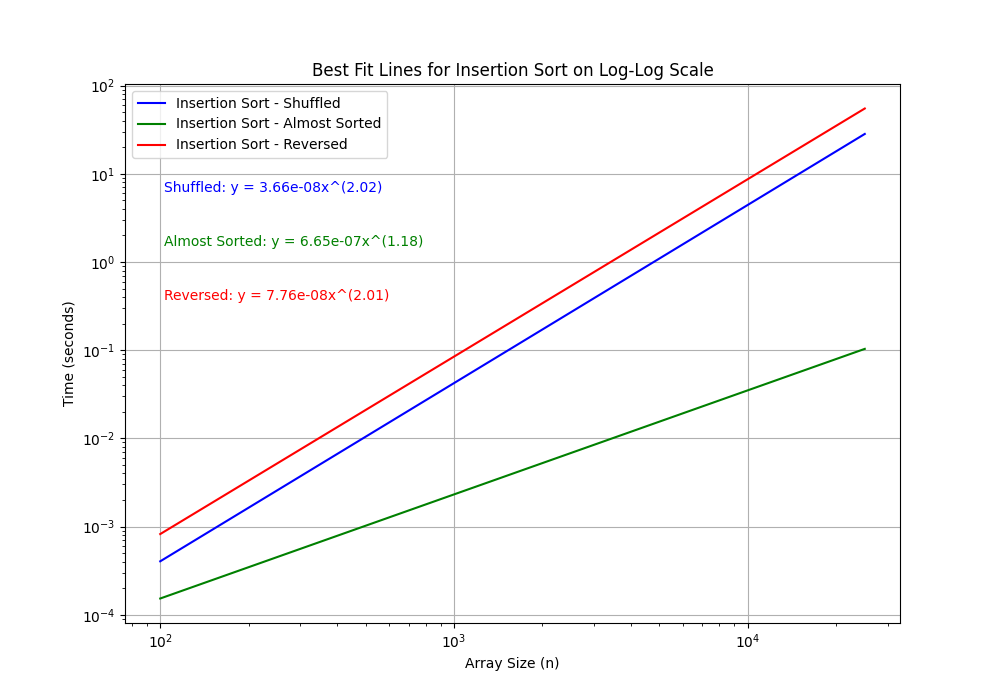
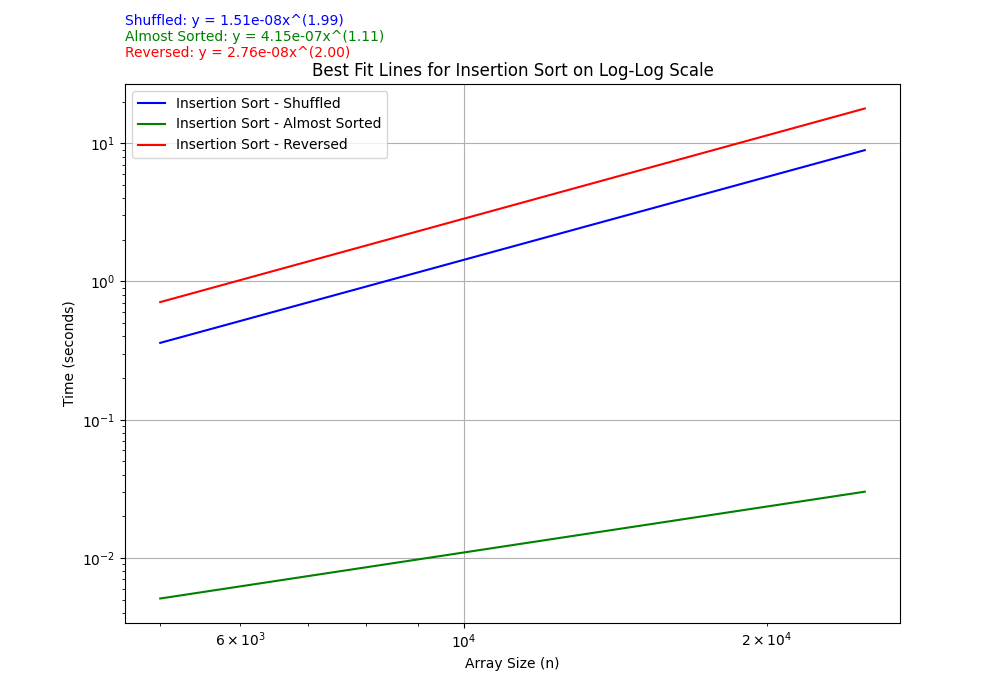
added actual timing graphs and improved equation position

diff --git a/main.py b/main.py
@@ -22,7 +22,7 @@ def plot_and_save_best_fit_lines(testN, timings, algorithm_name):
     labels = ["Shuffled", "Almost Sorted", "Reversed"]
 
     # Define a location to start placing text
-    y_position = 0.8  # Starting y position for the text, in axes coordinates
+    y_position = 1.11  # Starting y position for the text, in axes coordinates
 
     for i, label in enumerate(labels):  # For each input distribution
         y_log = np.log(timings[:, i])
@@ -38,13 +38,13 @@ def plot_and_save_best_fit_lines(testN, timings, algorithm_name):
 
         # Place text on the plot
         plt.text(
-            0.05,
+            0,
             y_position,
             equation_str,
             transform=plt.gca().transAxes,
             color=colors[i],
         )
-        y_position -= 0.1  # Adjust y position for the next line of text
+        y_position -= 0.03  # Adjust y position for the next line of text
 
     plt.xscale("log")
     plt.yscale("log")
@@ -58,6 +58,24 @@ def plot_and_save_best_fit_lines(testN, timings, algorithm_name):
     plt.savefig(f"{algorithm_name}_Performance.png")
     plt.close()  # Close the plot to free up memory and avoid displaying it inline if not desired
 
+def plot_and_save_actual_timings(testN, timings, algorithm_name):
+    plt.figure(figsize=(10, 7))
+    colors = ['b', 'g', 'r']  # Colors for shuffled, almost sorted, and reversed
+    labels = ['Shuffled', 'Almost Sorted', 'Reversed']
+    
+    for i, label in enumerate(labels):  # For each input distribution
+        plt.plot(testN, timings[:, i], 'o-', color=colors[i], label=f'{algorithm_name} - {label}')
+
+    plt.xscale('log')
+    plt.yscale('log')
+    plt.xlabel('Array Size (n)')
+    plt.ylabel('Time (seconds)')
+    plt.title(f'Actual Timings for {algorithm_name} on Log-Log Scale')
+    plt.legend()
+    plt.grid(True)
+    
+    plt.savefig(f'{algorithm_name} Actual Timings.png')
+    plt.close()
 
 def generateUniformPermutations(n):
     if n == 0:
@@ -223,9 +241,11 @@ def testHybrid3(sortedNums, shuffledNums, almostSortedNums, reversedNums):
     test3_time = test3_end - test3_start
     return test1_time, test2_time, test3_time
 
+def generate_numbers(n):
+    return list(range(5000, n+1, 1000))
 
 def main():
-    testN = [100, 500, 1000, 2500, 5000, 10000, 25000]
+    testN = generate_numbers(25000)
     insertion_timings = np.zeros((len(testN), 3))
     merge_timings = np.zeros((len(testN), 3))
     shell1_timings = np.zeros((len(testN), 3))
@@ -236,52 +256,62 @@ def main():
     hybrid2_timings = np.zeros((len(testN), 3))
     hybrid3_timings = np.zeros((len(testN), 3))
     for i, n in enumerate(testN):
+        print("testing n = ", n)
         sortedNums = list(range(1, n + 1))
         shuffledNums = generateUniformPermutations(n)
         almostSortedNums = randomSwap(sortedNums)
         reversedNums = deepcopy(sortedNums)
         reversedNums.reverse()
         # test insertion sort
+        print("testing insertion sort with n = ", n)
         insertion_t1, insertion_t2, insertion_t3 = testInsertion(
             sortedNums, shuffledNums, almostSortedNums, reversedNums
         )
         insertion_timings[i] = [insertion_t1, insertion_t2, insertion_t3]
         # test merge sort
+        print("testing merge sort with n = ", n)
         merge_t1, merge_t2, merge_t3 = testMerge(
             sortedNums, shuffledNums, almostSortedNums, reversedNums
         )
         merge_timings[i] = [merge_t1, merge_t2, merge_t3]
         # test shell sort 1
+        print("testing shell sort 1 with n = ", n)
         shell1_t1, shell1_t2, shell1_t3 = testShell1(
             sortedNums, shuffledNums, almostSortedNums, reversedNums
         )
         shell1_timings[i] = [shell1_t1, shell1_t2, shell1_t3]
         # test shell sort 2
+        print("testing shell sort 2 with n = ", n)
         shell2_t1, shell2_t2, shell2_t3 = testShell2(
             sortedNums, shuffledNums, almostSortedNums, reversedNums
         )
         shell2_timings[i] = [shell2_t1, shell2_t2, shell2_t3]
         # test shell sort 3
+        print("testing shell sort 3 with n = ", n)
         shell3_t1, shell3_t2, shell3_t3 = testShell3(
             sortedNums, shuffledNums, almostSortedNums, reversedNums
         )
         shell3_timings[i] = [shell3_t1, shell3_t2, shell3_t3]
         # test shell sort 4
+        print("testing shell sort 4 with n = ", n)
         shell4_t1, shell4_t2, shell4_t3 = testShell4(
             sortedNums, shuffledNums, almostSortedNums, reversedNums
         )
         shell4_timings[i] = [shell4_t1, shell4_t2, shell4_t3]
         # test hybrid sort 1
+        print("testing hybrid sort 1 with n = ", n)
         hybrid1_t1, hybrid1_t2, hybrid1_t3 = testHybrid1(
             sortedNums, shuffledNums, almostSortedNums, reversedNums
         )
         hybrid1_timings[i] = [hybrid1_t1, hybrid1_t2, hybrid1_t3]
         # test hybrid sort 2
+        print("testing hybrid sort 2 with n = ", n)
         hybrid2_t1, hybrid2_t2, hybrid2_t3 = testHybrid2(
             sortedNums, shuffledNums, almostSortedNums, reversedNums
         )
         hybrid2_timings[i] = [hybrid2_t1, hybrid2_t2, hybrid2_t3]
         # test hybrid sort 3
+        print("testing hybrid sort 3 with n = ", n)
         hybrid3_t1, hybrid3_t2, hybrid3_t3 = testHybrid3(
             sortedNums, shuffledNums, almostSortedNums, reversedNums
         )
@@ -296,6 +326,17 @@ def main():
     plot_and_save_best_fit_lines(testN, hybrid1_timings, "Hybrid Sort 1")
     plot_and_save_best_fit_lines(testN, hybrid2_timings, "Hybrid Sort 2")
     plot_and_save_best_fit_lines(testN, hybrid3_timings, "Hybrid Sort 3")
+    
+    plot_and_save_actual_timings(testN, insertion_timings, "Insertion Sort")
+    plot_and_save_actual_timings(testN, merge_timings, "Merge Sort")
+    plot_and_save_actual_timings(testN, shell1_timings, "Shell Sort 1")
+    plot_and_save_actual_timings(testN, shell2_timings, "Shell Sort 2")
+    plot_and_save_actual_timings(testN, shell3_timings, "Shell Sort 3")
+    plot_and_save_actual_timings(testN, shell4_timings, "Shell Sort 4")
+    plot_and_save_actual_timings(testN, hybrid1_timings, "Hybrid Sort 1")
+    plot_and_save_actual_timings(testN, hybrid2_timings, "Hybrid Sort 2")
+    plot_and_save_actual_timings(testN, hybrid3_timings, "Hybrid Sort 3")
+    
 
 
 if __name__ == "__main__":
